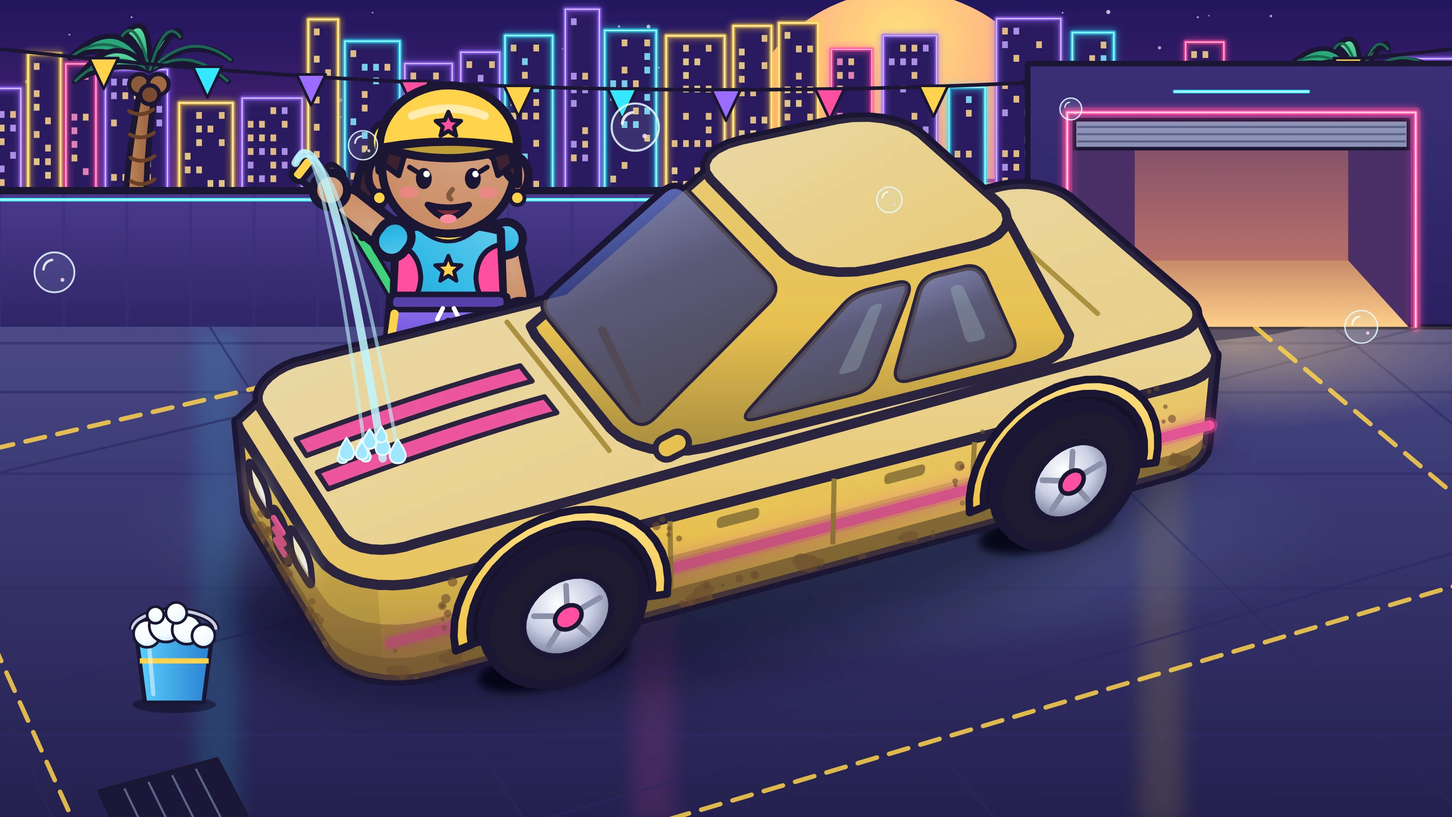
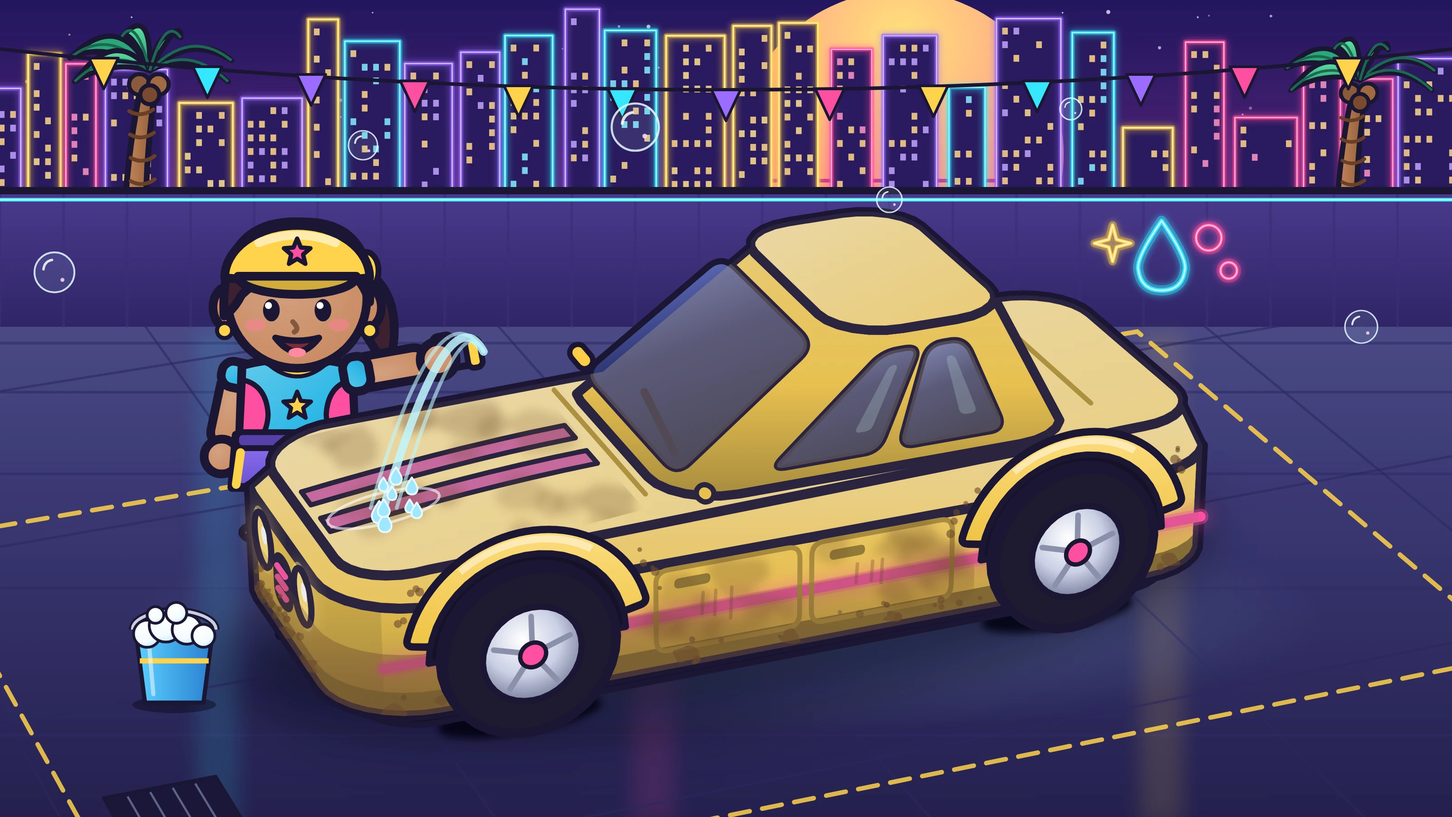
WIP: chase race mode (police / drone), start line, sun outline, wash v6 quads + keepVisible, rival names
Claude-Session: https://claude.ai/code/session_011bftBeXudnSzAMBxDFXhpR

diff --git a/engine.js b/engine.js
@@ -2293,8 +2293,9 @@ function buildPanel() {
     if (isMounted) {
       const rideAct = ACTIONS.find((a) => a.type === "ride");
       const jumpAct = ACTIONS.find((a) => a.type === "jump");
-      const raceAct = RACE && ACTIONS.find((a) => a.type === "race");
-      actions = (raceAct ? actBtn(`data-creature="${raceAct.id}"`, raceAct.icon, raceAct.label, raceAct.color, "act-primary") : "")
+      // several race actions = several race modes (e.g. a race against rivals AND a chase): one button each
+      const raceActs = RACE ? ACTIONS.filter((a) => a.type === "race") : [];
+      actions = raceActs.map((ra, i) => actBtn(`data-creature="${ra.id}"`, ra.icon, ra.label, ra.color, i === 0 ? "act-primary" : "")).join("")
         + (jumpAct ? actBtn(`data-creature="${jumpAct.id}"`, jumpAct.icon, jumpAct.label, jumpAct.color) : "")
         + actBtn(`data-creature="${rideAct.id}"`, rideAct.dismountIcon || "close", rideAct.dismountLabel || "Get off", "var(--bad)");
     } else {
@@ -2390,7 +2391,7 @@ function creatureAction(actionId) {
   if (a.type === "jump") { doJump(); return; }
   if (a.type === "customize") { openCustomize(c); return; }
   if (a.type === "closeup") { openCloseup(c, a); return; }
-  if (a.type === "race") { if (R3.on) endRace(false, true); else startRace(); return; }
+  if (a.type === "race") { if (R3.on) endRace(false, true); else startRace(a); return; }
 
   // resource cost
   if (a.cost) {
@@ -3599,7 +3600,9 @@ function r3Tint(img, hex) {
   if (hex) { x.globalCompositeOperation = "multiply"; x.fillStyle = hex; x.fillRect(0, 0, c.width, c.height); x.globalCompositeOperation = "destination-in"; x.drawImage(img, 0, 0); }
   return c;
 }
-function startRace() {
+// startRace(action): action.mode "chase" = escape a pursuer to the finish (race.chase); otherwise a race against
+// race.rivals when configured, else the classic time trial
+function startRace(a) {
   if (!RACE || R3.on || !mounted || !sc) return;
   let cv = $("race3d");
   if (!cv) { cv = document.createElement("canvas"); cv.id = "race3d"; cv.className = "race3d"; document.body.appendChild(cv); }
@@ -3620,6 +3623,8 @@ function startRace() {
   R3.maxSpeed = R3.baseMax * rideEmptyMul(); R3.drainAcc = 0; R3.tired = false;
   R3.time = RACE.time || 60; R3.over = false; R3.shake = R3.hitFlash = 0;
   R3.input = { left: false, right: false };
+  R3.mode = (a && a.mode) || (RACE.rivals ? "rivals" : "time");
+  if (R3.mode === "chase" && !RACE.chase) R3.mode = RACE.rivals ? "rivals" : "time";
   r3Rivals();
   const kd = (e) => r3Key(e, true), ku = (e) => r3Key(e, false);
   const set = (e) => { const r = cv.getBoundingClientRect(); const x = e.clientX - r.left; R3.input.left = x < r.width / 2; R3.input.right = x >= r.width / 2; };
@@ -3633,7 +3638,7 @@ function startRace() {
   document.documentElement.dataset.screen = "race";
   navPath = []; moveTarget = null;
   Sound.play("whoosh");
-  message((R3.rivals.length && RACE.rivals.startMessage) || RACE.startMessage || "Go!");
+  message((R3.chaser && RACE.chase.startMessage) || (R3.rivals.length && RACE.rivals.startMessage) || RACE.startMessage || "Go!");
   R3.on = true; R3.last = 0; R3.raf = requestAnimationFrame(r3Loop);
   panelId = PANEL_DIRTY; refreshInteraction();
 }
@@ -3685,13 +3690,14 @@ function r3Update(dt) {
   const T = RACE.track || {};
   // grid start: the field lines up ahead of the player (once the ride's drawn depth is known), then waits for 3-2-1
   if (R3.rivals.length && !R3.gridSet && R3.carDepth) r3Grid();
+  if (R3.chaser && !R3.chaser.set && R3.carDepth) { R3.chaser.z = r3PlayerZ() - R3.segLen * (RACE.chase.startGap || 30); R3.chaser.set = true; }
   if (R3.count > 0) {
     const before = Math.ceil(R3.count); R3.count -= R3.rawDt || dt; const after = Math.ceil(R3.count);   // real seconds, even at a low fps
     if (after !== before) Sound.play(after > 0 ? "tap" : "goal");
     if (R3.count > 0) return;
   }
   if (R3.count > -1) R3.count -= R3.rawDt || dt;     // lets the "GO!" fade out
-  if (R3.rivals.length) R3.time += dt; else R3.time -= dt;
+  if (R3.rivals.length || R3.chaser) R3.time += dt; else R3.time -= dt;
   R3.prevPos = R3.pos;
   // race.drain (per second, default 2.4 like running): the ride's fatigue need burns while racing
   const RD = CREATURE && CREATURE.ride;
@@ -3722,14 +3728,18 @@ function r3Update(dt) {
       if (o.dead || Math.abs(R3.playerX - o.offset) >= o.hw + 0.16) return;
       o.dead = true; R3.speed *= 0.32; R3.shake = 0.4; R3.hitFlash = 0.5;
       Sound.play("error");
-      if (R3.rivals.length) { if (RACE.rivals.hitMessage) message(RACE.rivals.hitMessage); }   // a real race: the hit costs speed, not time
+      if (R3.rivals.length || R3.chaser) { const hm = (R3.chaser ? RACE.chase : RACE.rivals).hitMessage; if (hm) message(hm); }   // a real race: the hit costs speed, not time
       else { R3.time -= (RACE.hitPenalty || 3); message((RACE.hitMessage || "−{n}s").replace("{n}", RACE.hitPenalty || 3)); }
     });
   }
   if (R3.rivals.length) r3RivalsUpdate(dt);
+  if (R3.chaser) { r3ChaseUpdate(dt); if (R3.over) return; }
   if (R3.shake > 0) R3.shake = Math.max(0, R3.shake - dt);
   if (R3.hitFlash > 0) R3.hitFlash = Math.max(0, R3.hitFlash - dt * 1.6);
-  if (R3.rivals.length) {
+  if (R3.chaser) {
+    if (R3.caught) return;                                          // the "caught" beat plays, then the results
+    if (r3PlayerZ() >= R3.finishZ || R3.time >= (RACE.chase.maxTime || 240)) { R3.over = true; endRace(true); }
+  } else if (R3.rivals.length) {
     // a real race ends when the player crosses the line (place = rivals already home + 1), or at the safety cap
     if (R3.pos + (R3.carDepth || 0) >= R3.finishZ || R3.time >= (RACE.rivals.maxTime || 240)) { R3.over = true; endRace(true); }
   } else if (R3.pos >= R3.finishZ) { R3.over = true; endRace(true); }
@@ -3738,8 +3748,9 @@ function r3Update(dt) {
 
 /* ---- race.rivals: a fixed field of competitors to overtake (grid start, ranking, results) ---- */
 function r3Rivals() {
-  const RV = RACE.rivals; R3.rivals = []; R3.count = 0; R3.place = 0; R3.bumpT = 0;
-  if (!RV || !(RV.list || []).length) return;
+  const RV = RACE.rivals; R3.rivals = []; R3.count = 0; R3.place = 0; R3.bumpT = 0; R3.chaser = null; R3.caught = 0;
+  if (R3.mode === "chase") { r3ChaseInit(); return; }
+  if (R3.mode !== "rivals" || !RV || !(RV.list || []).length) return;
   const n = Math.min(RV.count || RV.list.length, RV.list.length), sk = RV.skill || [0.84, 0.97];
   for (let k = 0; k < n; k++) {
     const d = RV.list[k], base = r3Img(d.sprite); if (!base) continue;
@@ -3756,11 +3767,81 @@ function r3Rivals() {
   R3.count = RV.countdown != null ? RV.countdown : 3.2;
   R3.time = 0; R3.gridSet = false;
 }
+/* ---- race.chase (action.mode "chase"): a pursuer starts behind and closes in; reach the finish before it
+   catches you. Obstacles and bumps slow you down, so they are what lets it catch up. ---- */
+function r3ChaseInit() {
+  const C = RACE.chase, base = r3Img(C.sprite); if (!base) return;
+  const rid = C.rider ? r3Img(C.rider) : null;
+  R3.chaser = { name: C.name || "", img: r3Tint(base, C.tint || null), rider: rid ? r3Tint(rid, C.riderTint || null) : null,
+    scale: C.scale || 6.5, x: 0, z: -1e9, speed: 0, set: false };
+  R3.count = C.countdown != null ? C.countdown : 3.2; R3.time = 0; R3.sirenT = 0;
+}
+function r3ChaseUpdate(dt) {
+  const C = RACE.chase, ch = R3.chaser, pz = r3PlayerZ(); if (!ch.set) return;
+  if (R3.caught) {
+    R3.caught -= dt; R3.speed *= (1 - Math.min(1, dt * 2.5));
+    ch.z = Math.max(ch.z, pz + R3.segLen * 1.2) + R3.speed * dt * 0.6;     // it pulls alongside, then in front
+    ch.x += ((R3.playerX > 0 ? -0.55 : 0.55) - ch.x) * Math.min(1, dt * 3);
+    if (R3.caught <= 0) { R3.caught = 0.0001; R3.over = true; endRace(true); }
+    return;
+  }
+  // the pursuer's pace ramps from skill[0] to skill[1] of the player's top speed over the race, so a clean
+  // run escapes and a few crashes get you caught
+  const sk = C.skill || [0.9, 1.04], prog = clamp(pz / R3.finishZ, 0, 1);
+  const target = R3.baseMax * (sk[0] + (sk[1] - sk[0]) * prog);
+  ch.speed += (target - ch.speed) * Math.min(1, dt * 0.8); ch.z += ch.speed * dt;
+  ch.x += (R3.playerX - ch.x) * Math.min(1, dt * 1.5);
+  const gap = pz - ch.z;
+  if (gap <= R3.segLen * (C.catchGap || 0.8)) {
+    R3.caught = C.caughtBeat || 1.4; R3.shake = 0.35; Sound.play("error");
+    if (C.caughtMessage) message(C.caughtMessage.replace("{name}", ch.name));
+    return;
+  }
+  // a siren cue that speeds up as it closes in
+  const close = clamp(1 - gap / (R3.segLen * (C.startGap || 30) * 1.6), 0, 1);
+  R3.sirenT += dt * (2 + close * 6);
+  if (close > 0.55 && Math.floor(R3.sirenT) !== Math.floor(R3.sirenT - dt * (2 + close * 6))) Sound.play("tap");
+}
+function r3ChaserDraw(seg) {
+  const ch = R3.chaser; if (!ch || !ch.set || Math.floor(ch.z / R3.segLen) !== seg.i || ch.z - R3.pos < R3.camD) return;
+  r3Billboard(seg, { img: ch.img, offset: ch.x, scale: ch.scale });
+  if (ch.rider) r3Billboard(seg, { img: ch.rider, offset: ch.x, scale: ch.scale });
+}
+// red / blue glow on the screen edges, stronger as the pursuer closes in (race.chase.siren:false disables)
+function r3Siren() {
+  const ch = R3.chaser; if (!ch || !ch.set || RACE.chase.siren === false) return;
+  const gap = r3PlayerZ() - ch.z, close = R3.caught ? 1 : clamp(1 - gap / (R3.segLen * (RACE.chase.startGap || 30) * 1.6), 0, 1);
+  if (close < 0.2) return;
+  const ctx = R3.ctx, W = R3.W, H = R3.H, on = Math.floor(R3.sirenT * 2 + (R3.caught ? R3.time * 6 : 0)) % 2;
+  const cols = RACE.chase.sirenColors || ["255,60,80", "60,120,255"], a = Math.min(0.75, (close - 0.2) * 1.0);
+  [[0, cols[on]], [W, cols[1 - on]]].forEach(([x, c]) => {
+    const g = ctx.createLinearGradient(x, 0, x === 0 ? W * 0.34 : W * 0.66, 0);
+    g.addColorStop(0, `rgba(${c},${a.toFixed(3)})`); g.addColorStop(1, `rgba(${c},0)`);
+    ctx.fillStyle = g; ctx.fillRect(x === 0 ? 0 : W * 0.66, 0, W * 0.34, H);
+  });
+}
+function r3ChaseResults() {
+  const C = RACE.chase, escaped = !R3.caught && r3PlayerZ() >= R3.finishZ, r = escaped ? (C.reward || 0) : (C.caughtReward || 0);
+  if (r) earn(r);
+  state.stats.chaseRun = (state.stats.chaseRun || 0) + 1;
+  if (escaped) { const k = C.stat || "chaseEscape"; state.stats[k] = (state.stats[k] || 0) + 1; }
+  state.actionsSinceRest = (state.actionsSinceRest || 0) + 1;
+  if (escaped) { Sound.play("celebrate"); confetti(); } else Sound.play("error");
+  const msg = escaped ? (C.escapeMessage || "{i:trophy} You escaped!") : (C.caughtTitle || "Caught!");
+  openModal(C.resultsTitle || "{i:flag} Results", `<div class="race-results"><p class="rr-head">${fmt(msg.replace("{name}", (R3.chaser && R3.chaser.name) || ""))}</p>
+    <p class="rr-sub">${fmt((escaped ? C.escapeHint : C.caughtHint) || "").replace("{t}", R3.time.toFixed(1))}</p>
+    ${r ? `<p class="rr-reward">${fmt("+" + r + " " + coinTok())}</p>` : ""}</div>`);
+  if (r && player) setTimeout(() => flyReward(player.x, player.y - 60, "+" + r + " " + coinTok()), 300);
+  lastInputT = nowMs(); refreshHud(); save();
+  panelId = PANEL_DIRTY; refreshInteraction();
+}
 // two-by-two grid ahead of the player: the strongest (row 0) in front, the player starts last
 function r3Grid() {
   // gridFirst (segments): the first row starts far enough ahead not to overlap the player's sprite
   const RV = RACE.rivals, gap = R3.segLen * (RV.gridGap || 4), first = R3.segLen * (RV.gridFirst || 0), pz = r3PlayerZ(), n = R3.rivals.length;
   R3.rivals.forEach((r) => { r.z = pz + first + gap * (Math.floor((n - 1 - r.row) / 2) + 1) + (r.row % 2) * gap * 0.5; });
+  // a chequered start line just in front of the player (rivals.startLine:false hides it)
+  if (RV.startLine !== false) { const i0 = Math.floor((pz + R3.segLen * 1.5) / R3.segLen); for (let i = i0; i < i0 + 2 && R3.segs[i]; i++) R3.segs[i].start = true; }
   R3.gridSet = true;
 }
 // player's track position = where the ride is DRAWN (camera + carDepth)
@@ -3813,9 +3894,9 @@ function r3RivalsDraw(seg) {
   });
 }
 function r3Countdown() {
-  if (!(R3.count > 0) && !(R3.count > -0.7 && R3.rivals.length)) return;
+  if (!(R3.count > 0) && !(R3.count > -0.7 && (R3.rivals.length || R3.chaser))) return;
   const ctx = R3.ctx, W = R3.W, H = R3.H, n = Math.ceil(R3.count), f = R3.count > 0 ? R3.count - Math.floor(R3.count) : (R3.count + 0.7) / 0.7;
-  const txt = R3.count > 0 ? String(n) : (RACE.rivals.goLabel || "GO!");
+  const txt = R3.count > 0 ? String(n) : (((R3.chaser ? RACE.chase : RACE.rivals) || {}).goLabel || "GO!");
   ctx.save(); ctx.globalAlpha = Math.min(1, f * 2.2);
   ctx.font = `800 ${Math.round(Math.min(W, H) * (0.22 + (1 - f) * 0.06))}px ${getComputedStyle(document.body).fontFamily || "sans-serif"}`;
   ctx.textAlign = "center"; ctx.textBaseline = "middle"; ctx.lineJoin = "round";
@@ -3844,7 +3925,7 @@ function r3Render() {
     if (p1.z - R3.pos < R3.camD || p2.sy >= maxy) continue;
     r3Segment(seg, p1, p2, C); maxy = p2.sy; drawn.push(seg);
   }
-  for (let n = drawn.length - 1; n >= 0; n--) { const s = drawn[n]; s.sprites.forEach((sp) => r3Billboard(s, sp)); s.obstacles.forEach((o) => { if (!o.dead) r3Billboard(s, o); }); r3RivalsDraw(s); }
+  for (let n = drawn.length - 1; n >= 0; n--) { const s = drawn[n]; s.sprites.forEach((sp) => r3Billboard(s, sp)); s.obstacles.forEach((o) => { if (!o.dead) r3Billboard(s, o); }); r3RivalsDraw(s); r3ChaserDraw(s); }
   if (R3.car) {
     // race.rideWidth: the ride's FRAME width as a fraction of the screen (0.32); a narrow drawing (e.g. a horse
     // from behind) needs a larger frame. Capped so the ride never exceeds 55 % of the height (landscape).
@@ -3861,6 +3942,7 @@ function r3Render() {
   }
   ctx.restore();
   if (R3.hitFlash > 0) { ctx.fillStyle = "rgba(255,60,60," + (R3.hitFlash * 0.4).toFixed(3) + ")"; ctx.fillRect(0, 0, W, H); }
+  r3Siren();
   r3Countdown();
 }
 function r3Sky(C) {
@@ -3873,6 +3955,7 @@ function r3Sky(C) {
     const SP = C.sunPos || {}, cx = W * (SP.x != null ? SP.x : 0.5) - R3.playerX * 46, cy = hz * (SP.y != null ? SP.y : 0.82), r = Math.min(W, H) * (SP.r || 0.15), sg = ctx.createLinearGradient(0, cy - r, 0, cy + r);
     sg.addColorStop(0, C.sun[0]); sg.addColorStop(1, C.sun[1]);
     ctx.fillStyle = sg; ctx.beginPath(); ctx.arc(cx, cy, r, 0, Math.PI * 2); ctx.fill();
+    if (C.sunOutline) { ctx.lineWidth = Math.max(2, r * 0.07); ctx.strokeStyle = C.sunOutline; ctx.stroke(); }   // match an outlined art style
   }
   if (C.skyline) {
     ctx.fillStyle = C.skyline; const bx = -((R3.playerX * 60) % 90);
@@ -3887,7 +3970,7 @@ function r3Segment(seg, p1, p2, C) {
   const ctx = R3.ctx;
   ctx.fillStyle = seg.grass; ctx.fillRect(0, p2.sy, R3.W, p1.sy - p2.sy + 1);
   r3Trap(p1.sx, p1.sy, p1.sw * 1.15, p2.sx, p2.sy, p2.sw * 1.15, seg.rumble);
-  if (seg.finish) {
+  if (seg.finish || seg.start) {
     const n = 10;
     for (let c = 0; c < n; c++) { const t = (c + 0.5) / n - 0.5; r3Trap(p1.sx + t * p1.sw * 2, p1.sy, p1.sw / n, p2.sx + t * p2.sw * 2, p2.sy, p2.sw / n, C.finish[(c + seg.i) % 2]); }
   } else {
@@ -3919,6 +4002,7 @@ function r3Hud(build) {
           : `<span class="resource" id="rh-dist"><span class="r-ico">${iconHTML(I.distance || "arrow")}</span><b>0</b></span>`}
         <span class="resource" id="rh-speed"><span class="r-ico">${iconHTML(I.speed || "star")}</span><b>0</b></span>
         <button class="mini-btn rh-quit" id="rh-quit" aria-label="${esc(stripIcons(RACE.quitLabel || "Quit"))}">${iconHTML(I.quit || "close")}</button></div>
+      ${R3.chaser ? `<span class="resource rh-need rh-chase" id="rh-chase"><span class="r-ico">${iconHTML(RACE.chase.icon || "wanted")}</span><span class="rh-gauge"><i></i></span><b>0</b></span>` : ""}
       ${RN ? `<span class="resource rh-need" id="rh-need"><span class="r-ico">${iconHTML(RN.icon || "battery")}</span><span class="rh-gauge"><i></i></span><b>0%</b></span>` : ""}</div>
       <div class="rh-steer"><span class="rh-l">${iconHTML(I.left || "arrow")}</span><span class="rh-hint">${fmt(RACE.hint || "")}</span><span class="rh-r">${iconHTML(I.right || "arrow")}</span></div>`;
     $("rh-quit").addEventListener("click", (e) => { e.stopPropagation(); endRace(false, true); });
@@ -3930,7 +4014,15 @@ function r3Hud(build) {
   if (R3.rivals.length) set("rh-place", r3PlaceLabel(R3.place || R3.rivals.length + 1) + "/" + (R3.rivals.length + 1));
   else set("rh-dist", Math.max(0, Math.round((R3.finishZ - R3.pos) / 100)) + " " + (RACE.distUnit || "m"));
   set("rh-speed", Math.round((R3.speed / R3.maxSpeed) * (RACE.topSpeed || 210)) + " " + (RACE.speedUnit || "km/h"));
-  const t = $("rh-time"); if (t) t.classList.toggle("warn", !R3.rivals.length && R3.time <= 8);
+  const t = $("rh-time"); if (t) t.classList.toggle("warn", !R3.rivals.length && !R3.chaser && R3.time <= 8);
+  const ch = $("rh-chase");
+  if (ch && R3.chaser) {
+    // the pursuer's distance: the gauge fills as it closes in (full = caught)
+    const gap = Math.max(0, r3PlayerZ() - R3.chaser.z), start = R3.segLen * (RACE.chase.startGap || 30);
+    const close = R3.caught ? 1 : clamp(1 - gap / (start * 1.6), 0, 1), w = Math.round(close * 100) + "%";
+    const bar = ch.querySelector(".rh-gauge i"); if (bar && bar.style.width !== w) bar.style.width = w;
+    set("rh-chase", Math.round(gap / 100) + " " + (RACE.distUnit || "m")); ch.classList.toggle("low", close > 0.7);
+  }
   const ng = $("rh-need");
   if (ng && mounted) {
     const v = Math.max(0, Math.min(100, mounted[CREATURE.ride.fatigueNeed] || 0)), w = Math.round(v) + "%";
@@ -3951,6 +4043,7 @@ function r3PlaceLabel(p) { const L = (RACE.rivals && RACE.rivals.placeLabels) ||
 function endRace(win, quit) {
   if (!R3.on) return;
   r3Teardown();
+  if (R3.chaser && !quit) { r3ChaseResults(); return; }
   if (R3.rivals.length && !quit) { r3Results(); return; }
   if (win) {
     const r = RACE.reward || 0; earn(r);

diff --git a/game.config.js b/game.config.js
@@ -137,7 +137,7 @@ window.GAME = {
       billboard: { path: "assets/img/billboard.webp", res: 2 },
       want_gas: { path: "assets/img/want_gas.webp", res: 2 }, parcel: { path: "assets/img/parcel.webp", res: 2 }, target: { path: "assets/img/target.webp", res: 2 }, flag: { path: "assets/img/flag.webp", res: 2 },
       // pseudo-3D race view billboards
-      car_back: { path: "assets/img/car_back.webp", res: 2 }, cone: { path: "assets/img/cone.webp", res: 2 },
+      car_back: { path: "assets/img/car_back.webp", res: 2 }, police_back: { path: "assets/img/police_back.webp", res: 2 },   // race.chase pursuer cone: { path: "assets/img/cone.webp", res: 2 },
       bldg_a: { path: "assets/img/bldg_a.webp", res: 2 }, bldg_b: { path: "assets/img/bldg_b.webp", res: 2 },
       // car-wash close-up (hood seen from the front; "_done" = shiny) + mud splats + sponge
       wash_silver: { path: "assets/img/wash_silver.webp", res: 2 }, wash_silver_done: { path: "assets/img/wash_silver_done.webp", res: 2 }, wash_silver_wide: { path: "assets/img/wash_silver_wide.webp", res: 2 }, wash_silver_wide_done: { path: "assets/img/wash_silver_wide_done.webp", res: 2 },
@@ -201,19 +201,24 @@ window.GAME = {
     actions: [
       { id: "drive", type: "ride", label: "Conduire", icon: "car", color: "#38e0e6", dismountLabel: "Descendre", dismountIcon: "close" },
       { id: "race", type: "race", label: "Course", icon: "flag", color: "#ff4d97" },
+      // race variant: the police chases you to the finish line (race.chase)
+      { id: "poursuite", type: "race", mode: "chase", label: "Poursuite", icon: "police", color: "#4a7bff" },
       { id: "boost", type: "jump", label: "Cascade", icon: "stunt", color: "#ffcf3f" },
       // CLOSE-UP car wash: zoom on the hood and scrub the mud off with the sponge
       { id: "wash", type: "closeup", label: "Laver", icon: "wash", color: "#3fd0ff", stat: "wash",
         closeup: {
           bg: "wash_silver", spotSprites: ["mud_a", "mud_b", "mud_c"], brush: "sponge", brushTip: { x: 0.363, y: 0.794 },
-          spots: { base: 4, growEvery: 2, max: 9, rubs: 3, size: 150, minGap: 0.08,
+          spots: { base: 4, growEvery: 2, max: 9, rubs: 3, size: 150, minGap: 0.12,
                    // the hood top, then the door panel, as perspective QUADS (washAreas() quads in tools/art/neon.cjs)
-                   area: [{ quad: [[0.566, 0.557], [0.389, 0.642], [0.193, 0.529], [0.366, 0.452]], margin: 0.18 },
-                         { quad: [[0.771, 0.577], [0.658, 0.625], [0.659, 0.579], [0.773, 0.531]], margin: 0.12 }] },   // door cut at the phone crop
+                   area: [{ quad: [[0.563, 0.58], [0.323, 0.627], [0.234, 0.533], [0.464, 0.489]], margin: 0.16 },
+                         { quad: [[0.77, 0.6], [0.595, 0.677], [0.594, 0.625], [0.77, 0.548]], margin: 0.1 }] },   // door cut at the phone crop
           // phone held sideways: the whole car in 3/4 view (same areas order: hood, side — washAreas() in neon.cjs)
-          wide: { bg: "wash_silver_wide", bgDone: "wash_silver_wide_done",
-                  area: [{ quad: [[0.405, 0.571], [0.261, 0.657], [0.192, 0.471], [0.327, 0.394]], margin: 0.18 },
-                         { quad: [[0.657, 0.633], [0.466, 0.724], [0.466, 0.633], [0.659, 0.543]], margin: 0.15 }] },
+          wide: { bg: "wash_silver_wide", bgDone: "wash_silver_wide_done", brushRest: { x: 0.82, y: 0.84 },
+                  area: [{ quad: [[0.43, 0.619], [0.26, 0.697], [0.198, 0.548], [0.36, 0.476]], margin: 0.16 },
+                         { quad: [[0.655, 0.731], [0.452, 0.799], [0.452, 0.7], [0.656, 0.634]], margin: 0.12 }],
+                  keepVisible: [{ x: 0.145, y: 0.235, w: 0.12, h: 0.22 }, { x: 0.173, y: 0.556, w: 0.046, h: 0.285 }] },
+          // the girl's face + the car's nose must stay on screen and clear of the HUD (probes/cuwide.cjs)
+          keepVisible: [{ x: 0.304, y: 0.342, w: 0.163, h: 0.117 }, { x: 0.199, y: 0.54, w: 0.067, h: 0.161 }],
           finishParticles: ["sparkle", "star"],
           foam: { colors: ["#ffffff", "#e3f9ff", "#c8f4ff"] },
         },
@@ -251,6 +256,19 @@ window.GAME = {
     ],
     // a REAL race: 5 rival cars to overtake (you start last), ranking, results with a reward per place
     horizon: 0.42,                           // tall phones: more road, less empty sky
+    // CHASE variant ("Poursuite"): the police starts behind and closes in; a clean run escapes, crashes get you caught
+    chase: {
+      name: "la police", sprite: "police_back", scale: 6.5, icon: "police",
+      startGap: 28, skill: [0.9, 1.05], catchGap: 0.8,
+      reward: 90, caughtReward: 5, stat: "chaseEscape",
+      startMessage: "{i:police} La police est à tes trousses ! Fonce jusqu'à l'arrivée sans te faire rattraper !",
+      hitMessage: "Aïe ! La police se rapproche…",
+      caughtMessage: "{i:police} Rattrapé par {name} !",
+      resultsTitle: "{i:police} Poursuite",
+      escapeMessage: "{i:trophy} Tu as semé la police !", escapeHint: "Arrivée en {t} s, sans te faire prendre.",
+      caughtTitle: "{i:police} La police t'a rattrapé !", caughtHint: "Évite les plots : chaque choc te ralentit.",
+      goLabel: "Fonce !",
+    },
     rivals: {
       list: [
         { name: "Vipère", sprite: "car_back", tint: "#5aa6ff", color: "#5aa6ff" },
@@ -410,6 +428,7 @@ window.GAME = {
         { id: "buy1", name: "Nouvelle caisse", desc: "Achète une voiture à la Concession {i:dealer}", check: (s) => (s.creatures || []).some((c) => c.model) },
         { id: "race3", name: "Pilote confirmé", desc: "Gagne 3 courses {i:flag}", check: (s) => (s.stats.raceWin || 0) >= 3 },
         { id: "job12", name: "Transporteur", desc: "Fais 12 livraisons {i:parcel}", check: (s) => (s.stats.jobs || 0) >= 12 },
+        { id: "escape1", name: "Insaisissable", desc: "Sème la police en Poursuite {i:police}", check: (s) => (s.stats.chaseEscape || 0) >= 1 },
       ] },
       { name: "Caïd", goals: [
         { id: "earn1500", name: "Fortune", desc: "Gagne 1500 {i:cash} en tout", check: (s) => (s.stats.earned || 0) >= 1500 },
@@ -426,7 +445,7 @@ window.GAME = {
     "{i:parcel} <b>Livraisons (Dépôt) :</b> suis la flèche jusqu'au <b>colis</b>, récupère-le, puis emmène-le jusqu'à la <b>cible</b> au sol pour être payé.",
     "{i:wanted} <b>Cargaisons sensibles :</b> elles paient gros mais la police te prend en chasse. Sème-la en roulant vite, ou va repeindre ta voiture au {i:garage} <b>Garage</b> (en voiture).",
     "{i:bed} <b>La Planque :</b> c'est là que tu dors pour passer au jour suivant, à pied ou en voiture.",
-    "{i:flag} <b>Course :</b> au volant, « Course » : vue derrière la voiture. Tu pars dernier derrière 5 voitures : touche à gauche ou à droite pour les doubler et éviter les plots. Plus tu finis haut, plus tu gagnes !",
+    "{i:flag} <b>Course :</b> au volant, « Course » : vue derrière la voiture. Tu pars dernier derrière 5 voitures : touche à gauche ou à droite pour les doubler et éviter les plots. Plus tu finis haut, plus tu gagnes ! {i:police} <b>Poursuite :</b> la police part derrière toi, file jusqu'à l'arrivée sans te faire rattraper.",
     "{i:dealer} <b>Concession :</b> achète des voitures plus rapides ({i:speed} vitesse, {i:grip} tenue, {i:range} autonomie).",
     "{i:fuel} <b>Essence :</b> elle baisse en roulant (et pendant les courses). Panne sèche : la voiture roule au ralenti, alors file au volant jusqu'à la <b>station-service</b> pour faire le plein. {i:stunt} <b>Cascade :</b> saute par-dessus une rampe pour un bonus.",
     "{i:wash} <b>Lavage :</b> une voiture se salit de jour en jour ({i:clean} Propreté). Touche-la à pied puis « Laver » : frotte la boue sur le capot avec l'éponge.",

diff --git a/engine.css b/engine.css
@@ -399,6 +399,8 @@ input[type="text"]::placeholder { color: var(--muted); opacity: 0.65; }
 .rr-medal .ico { width: 26px; height: 26px; }
 .rr-medal.m1 { background: linear-gradient(#ffe27a, #f2b33d); } .rr-medal.m2 { background: linear-gradient(#f1f3f8, #b9c0cf); }
 .rr-medal.m3 { background: linear-gradient(#f2c49a, #c9844e); }
+.rr-sub { text-align: center; margin: 0; opacity: .8; }
+.rh-chase .rh-gauge i { background: linear-gradient(90deg, #5aa0ff, #ff4d6a); }
 .rr-reward { text-align: center; font-size: 1.3rem; font-weight: 800; margin: 2px 0 0; }
 .rr-reward .ico { width: 1.6em; height: 1.6em; vertical-align: -0.5em; }
 .rh-top .resource.warn { border-color: var(--bad); animation: heatPulse .6s ease-in-out infinite; }

diff --git a/ENGINE.md b/ENGINE.md
@@ -553,7 +553,8 @@ race: { time, reward, stat:"raceWin", hitPenalty, sprite, rideWidth:0.32 /* ride
 //   raceWin (1st), racePodium (top 3), raceBest. A rival = sprite (tinted) + optional rider layer (tinted).
 //   Probe: probes/racerivals.cjs.
 // horizon: 0.5 (fraction of the screen; 0.4 fills a tall phone with road); colors.sunPos:{x,y,r} moves the sun
-// off the centre (the countdown is drawn there).
+// off the centre (the countdown is drawn there); colors.sunOutline:"#hex" outlines it. rivals.startLine:false hides
+// the chequered start line drawn just ahead of the player.
 // showNeed (default true): the ride's fatigue need (e.g. fuel) as a gauge under the HUD chips — turns red and
 // pulses below 25 %, so a ride slowing down mid-race (empty tank, ride.empty:"slow") is understood. false hides it.
 ```
